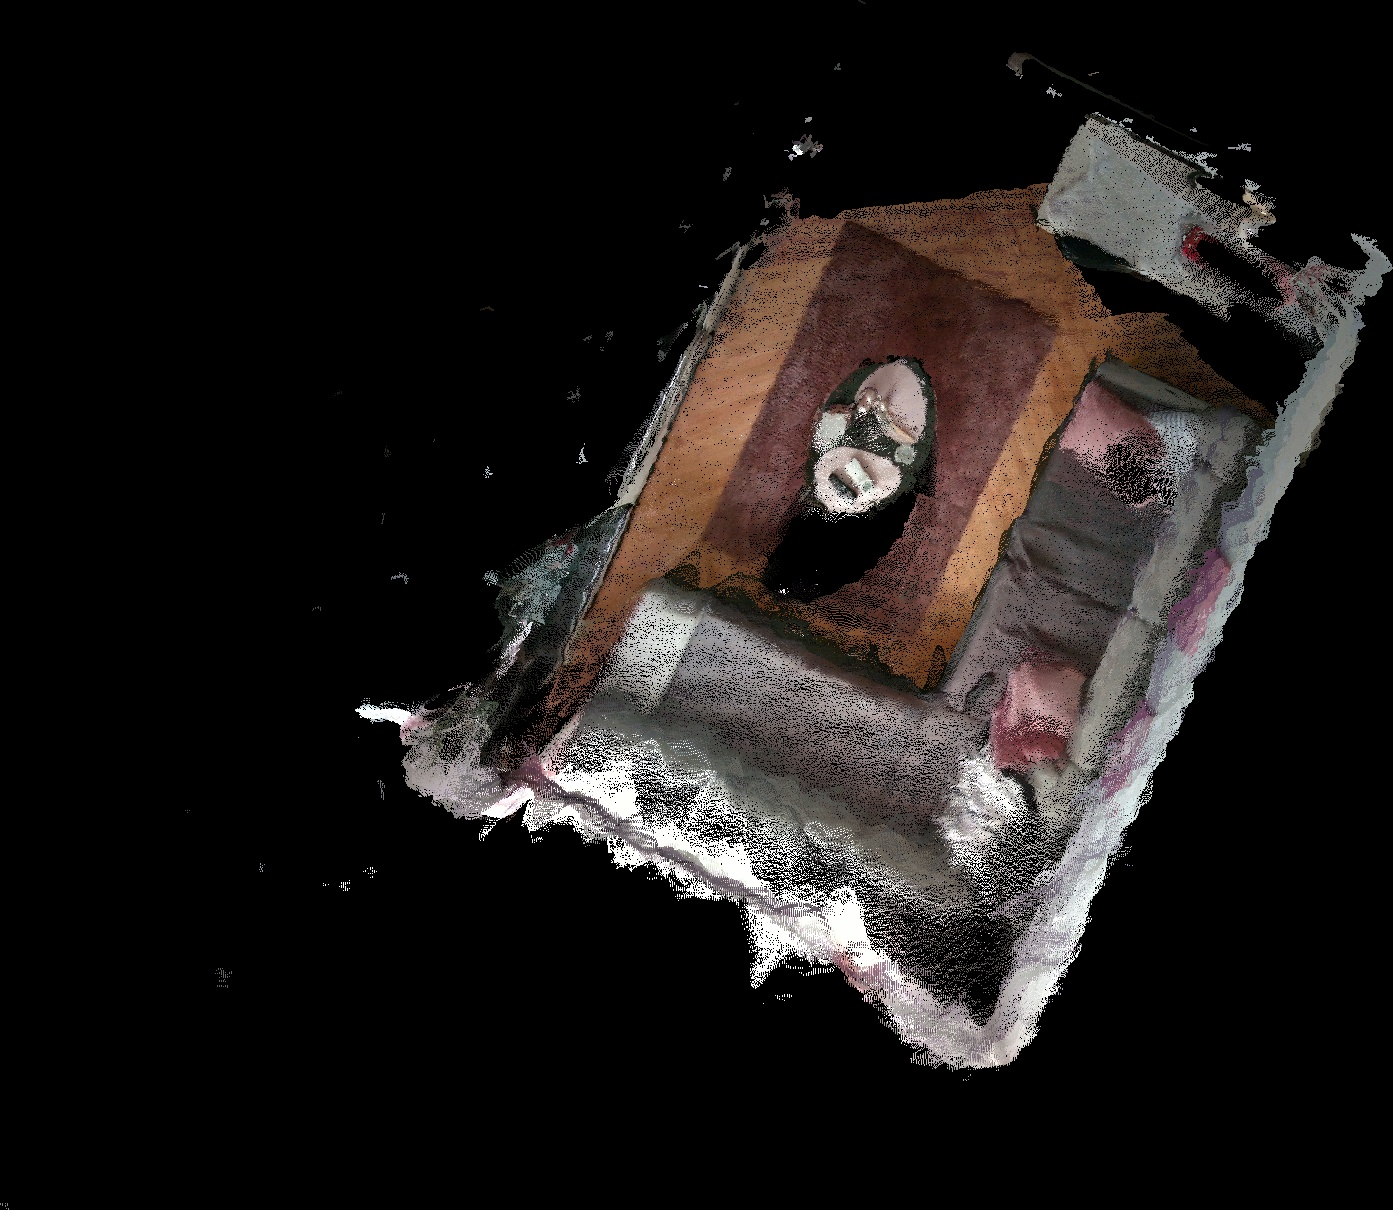
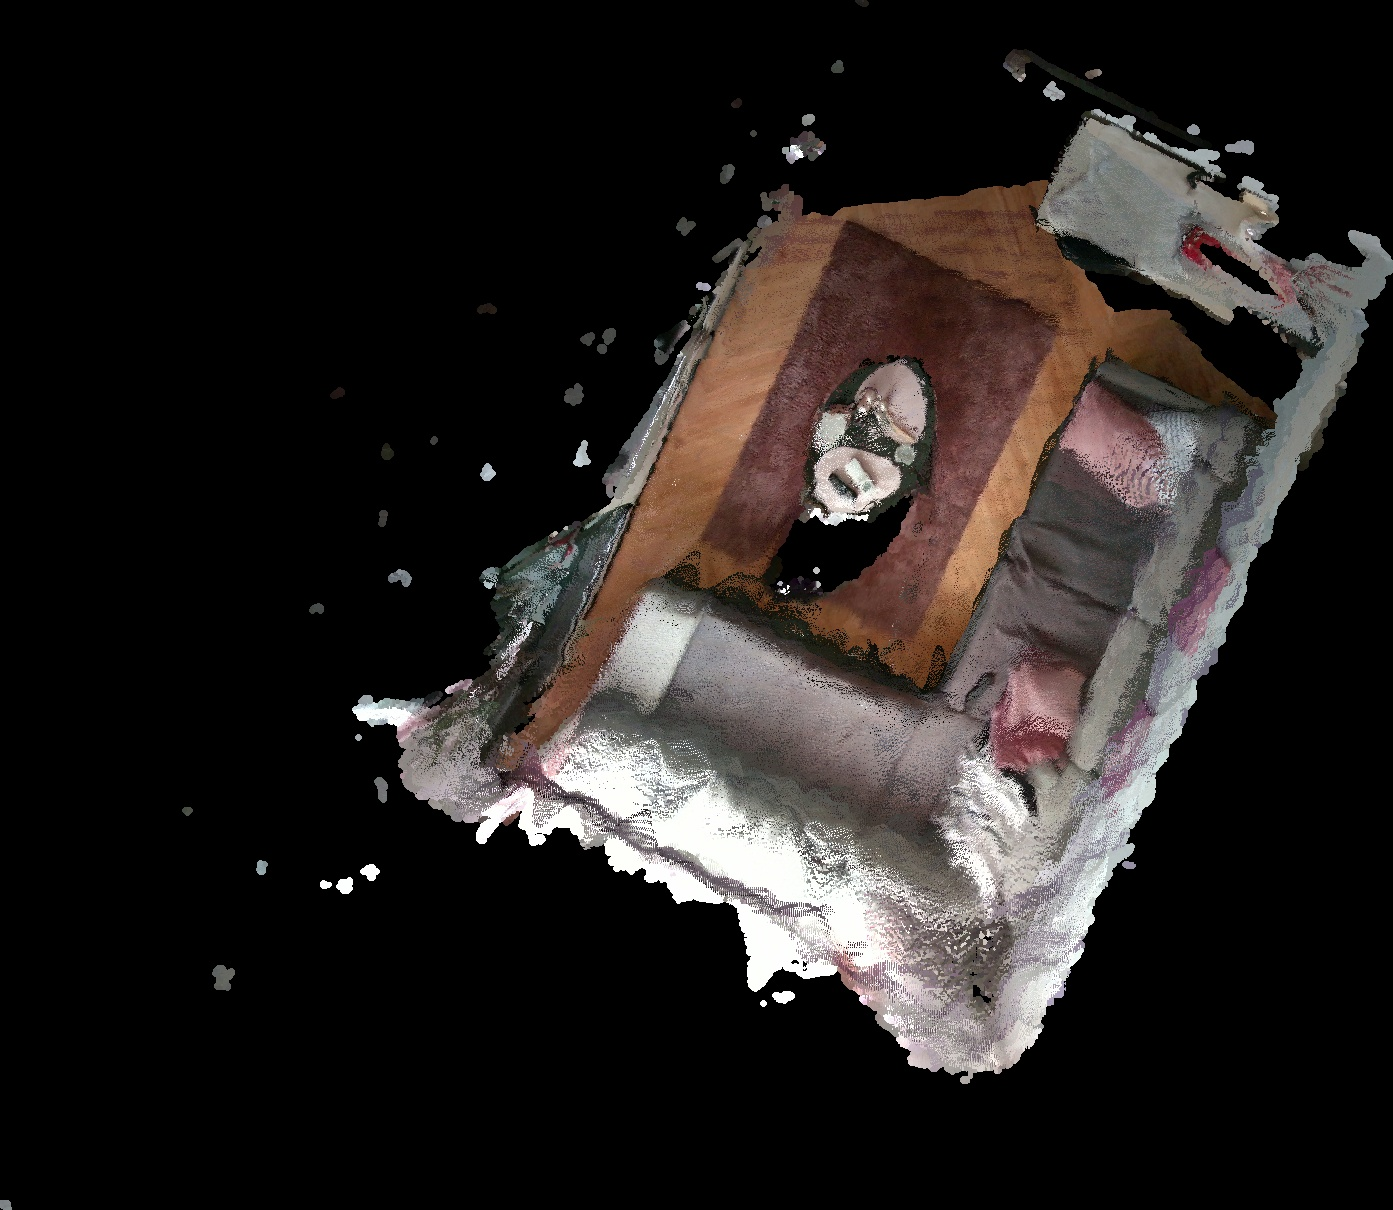
Nearest neighbor interpolation multithreading.

diff --git a/ply_dem/main.cpp b/ply_dem/main.cpp
@@ -116,13 +116,12 @@ void filtrationViz(pcl::PointCloud<pcl::PointXYZRGB>::Ptr filtered, pcl::PointCl
     }
 }
 
+//----------------------------------------------------------------------------------
 template <typename T>
-void nearestNeighborInterpolation(cv::Mat& dem, cv::Mat& dataPoints, cv::flann::Index& kdTree, float searchRadius, int threads = 1) {
-    cv::Mat interpolated = dem.clone();
-
-    for(int i = 0; i < dem.rows; i++) {
-        for(int j = 0; j < dem.cols; j++) {
-            if(isNaN(dem.at<T>(i, j))) {
+void nnInterpolationThread(cv::Mat& input, cv::Mat& output, cv::Mat& dataPoints, cv::flann::Index& kdTree, float searchRadius, int startRow, int endRow) {
+    for(int i = startRow; i < endRow; i++) {
+        for(int j = 0; j < input.cols; j++) {
+            if(isNaN(input.at<T>(i, j))) {
                 std::vector<float> queryData = {(float) i, (float) j};
                 std::vector<int> indices;
                 std::vector<float> dists;
@@ -132,20 +131,42 @@ void nearestNeighborInterpolation(cv::Mat& dem, cv::Mat& dataPoints, cv::flann::
                 if(indices[0] == 0 && dists[0] == 0.0)
                     continue; //No neighbour found
 
-                //I know that I is supposed to represent y axis, leave me alone
                 int nearest_i = dataPoints.at<cv::Point2f>(indices[0]).x;
                 int nearest_j = dataPoints.at<cv::Point2f>(indices[0]).y;
 
-                interpolated.at<T>(i, j) = dem.at<T>(nearest_i, nearest_j);
+                output.at<T>(i, j) = input.at<T>(nearest_i, nearest_j);
             }
         }
     }
 
-    dem = interpolated;
+    std::cout << "NN thread with START " << startRow << " and END " << endRow << " finished!" << std::endl;
 }
 
+template <typename T>
+void nnInterpolation(cv::Mat& dem, cv::Mat& dataPoints, cv::flann::Index& kdTree, float searchRadius, int numThreads = 1) {
+    std::cout << "Starting NN threads" << std::endl;
+    cv::Mat interpolated = dem.clone();
+    
+    std::vector<std::thread> threads;
+    int rowsPerThread = dem.rows / numThreads;
+
+    for(int threadId = 0; threadId < numThreads; threadId++) {
+        int startRow = threadId * rowsPerThread;
+        int endRow = (threadId == numThreads - 1) ? dem.rows : (startRow + rowsPerThread);
+
+        threads.emplace_back(nnInterpolationThread<cv::Vec3f>, std::ref(interpolated), std::ref(interpolated),
+                            std::ref(dataPoints), std::ref(kdTree), searchRadius, startRow, endRow);
+    }
+
+    for(auto& thread : threads) {
+        thread.join();
+    }
+
+    dem = interpolated;
+}
 //----------------------------------------------------------------------------------
 
+//----------------------------------------------------------------------------------
 void knnInterpolationThread(const cv::Mat& input, cv::Mat& output, const cv::Mat& dataPoints, cv::flann::Index& kdTree, float searchRadius, int nNeighbors, float p, int startRow, int endRow) {
 
     for(int i = startRow; i < endRow; i++) {
@@ -184,7 +205,7 @@ void knnInterpolationThread(const cv::Mat& input, cv::Mat& output, const cv::Mat
         }
     }
 
-    std::cout << "Thread with START " << startRow << " and END " << endRow << " finished!" << std::endl;
+    std::cout << "KNN thread with START " << startRow << " and END " << endRow << " finished!" << std::endl;
 }
 
 void knnInterpolation(cv::Mat& dem, cv::Mat& dataPoints, cv::flann::Index& kdTree, float searchRadius, int nNeighbors, float p, int numThreads = 1) {
@@ -440,7 +461,7 @@ int main(int, char**){
     auto mosaicKdTree = buildKDTree(mosaicDataPoints);
 
     std::cout << "Interpolating" << std::endl;
-    //nearestNeighborInterpolation<cv::Vec3f>(mosaicNN, mosaicDataPoints, mosaicKdTree, 10);
+    nnInterpolation<cv::Vec3f>(mosaicNN, mosaicDataPoints, mosaicKdTree, 10, 8);
     knnInterpolation(mosaicKNN, mosaicDataPoints, mosaicKdTree, 10, 20, 2.0, 8);
 
     cv::normalize(mosaic, mosaic, 0, 255, cv::NORM_MINMAX, CV_8U);
